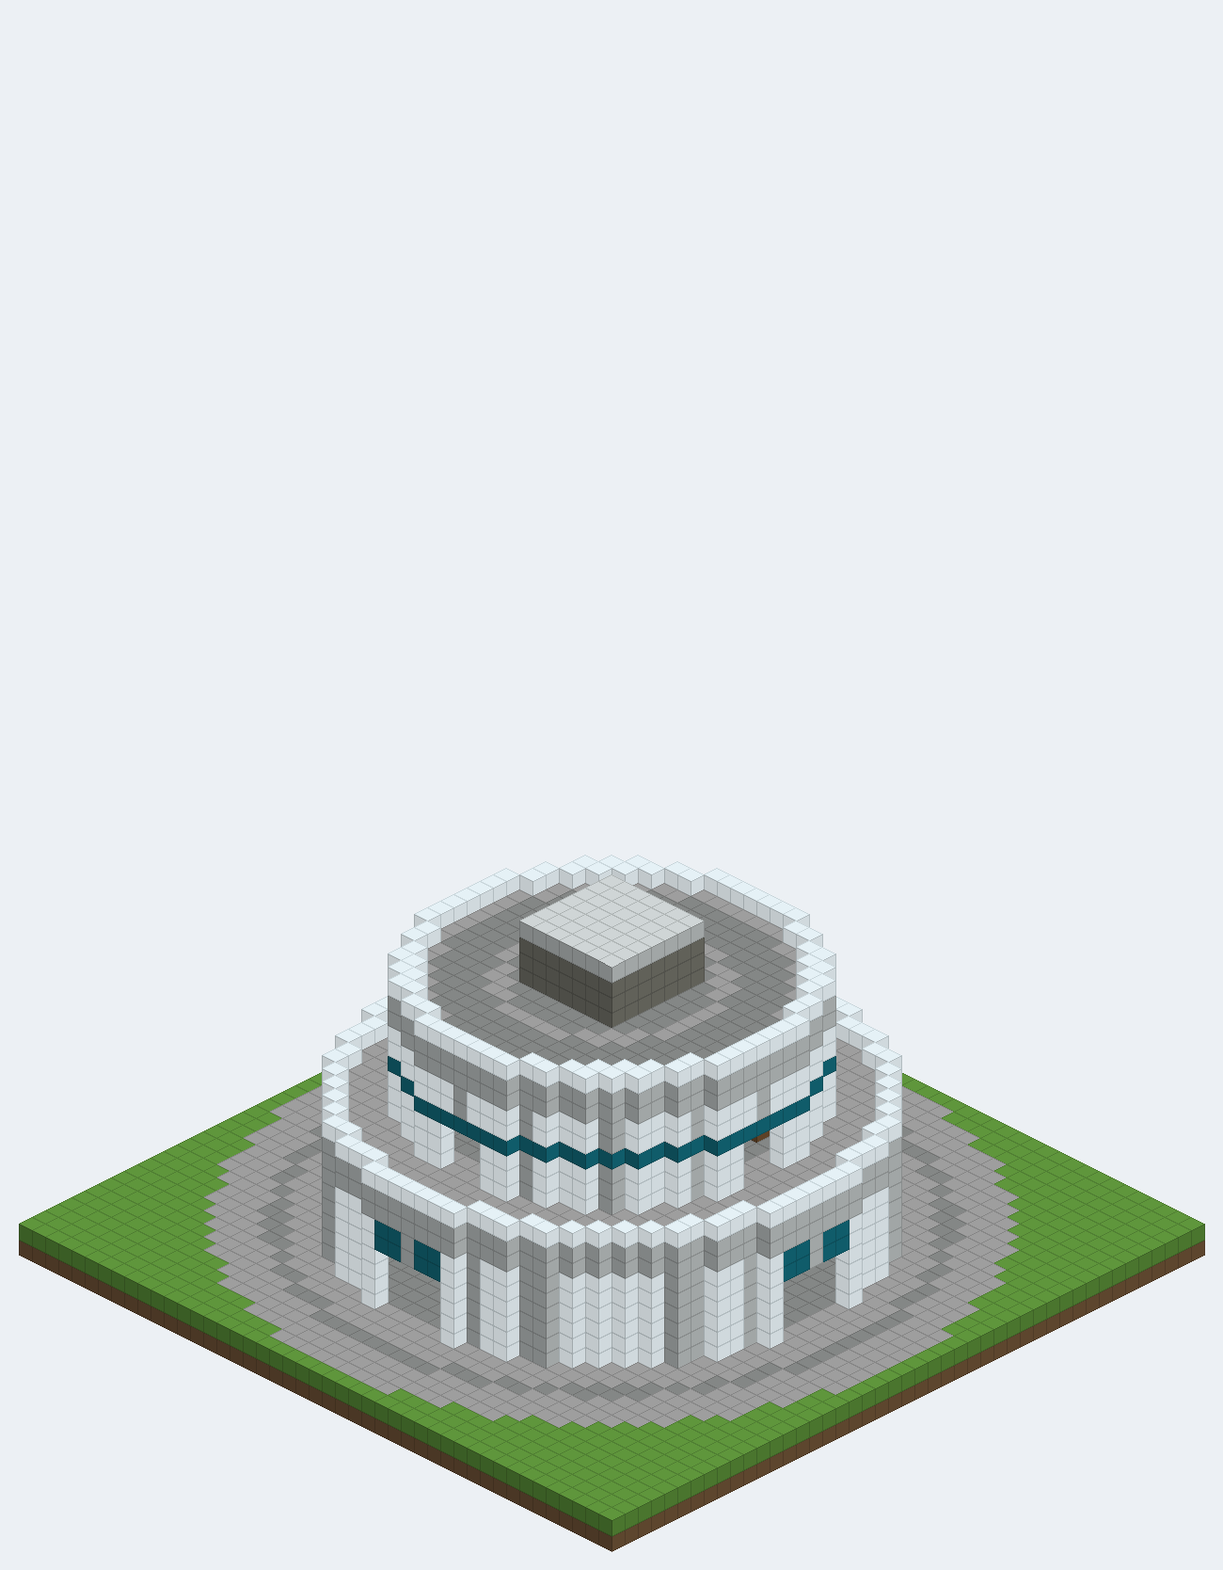
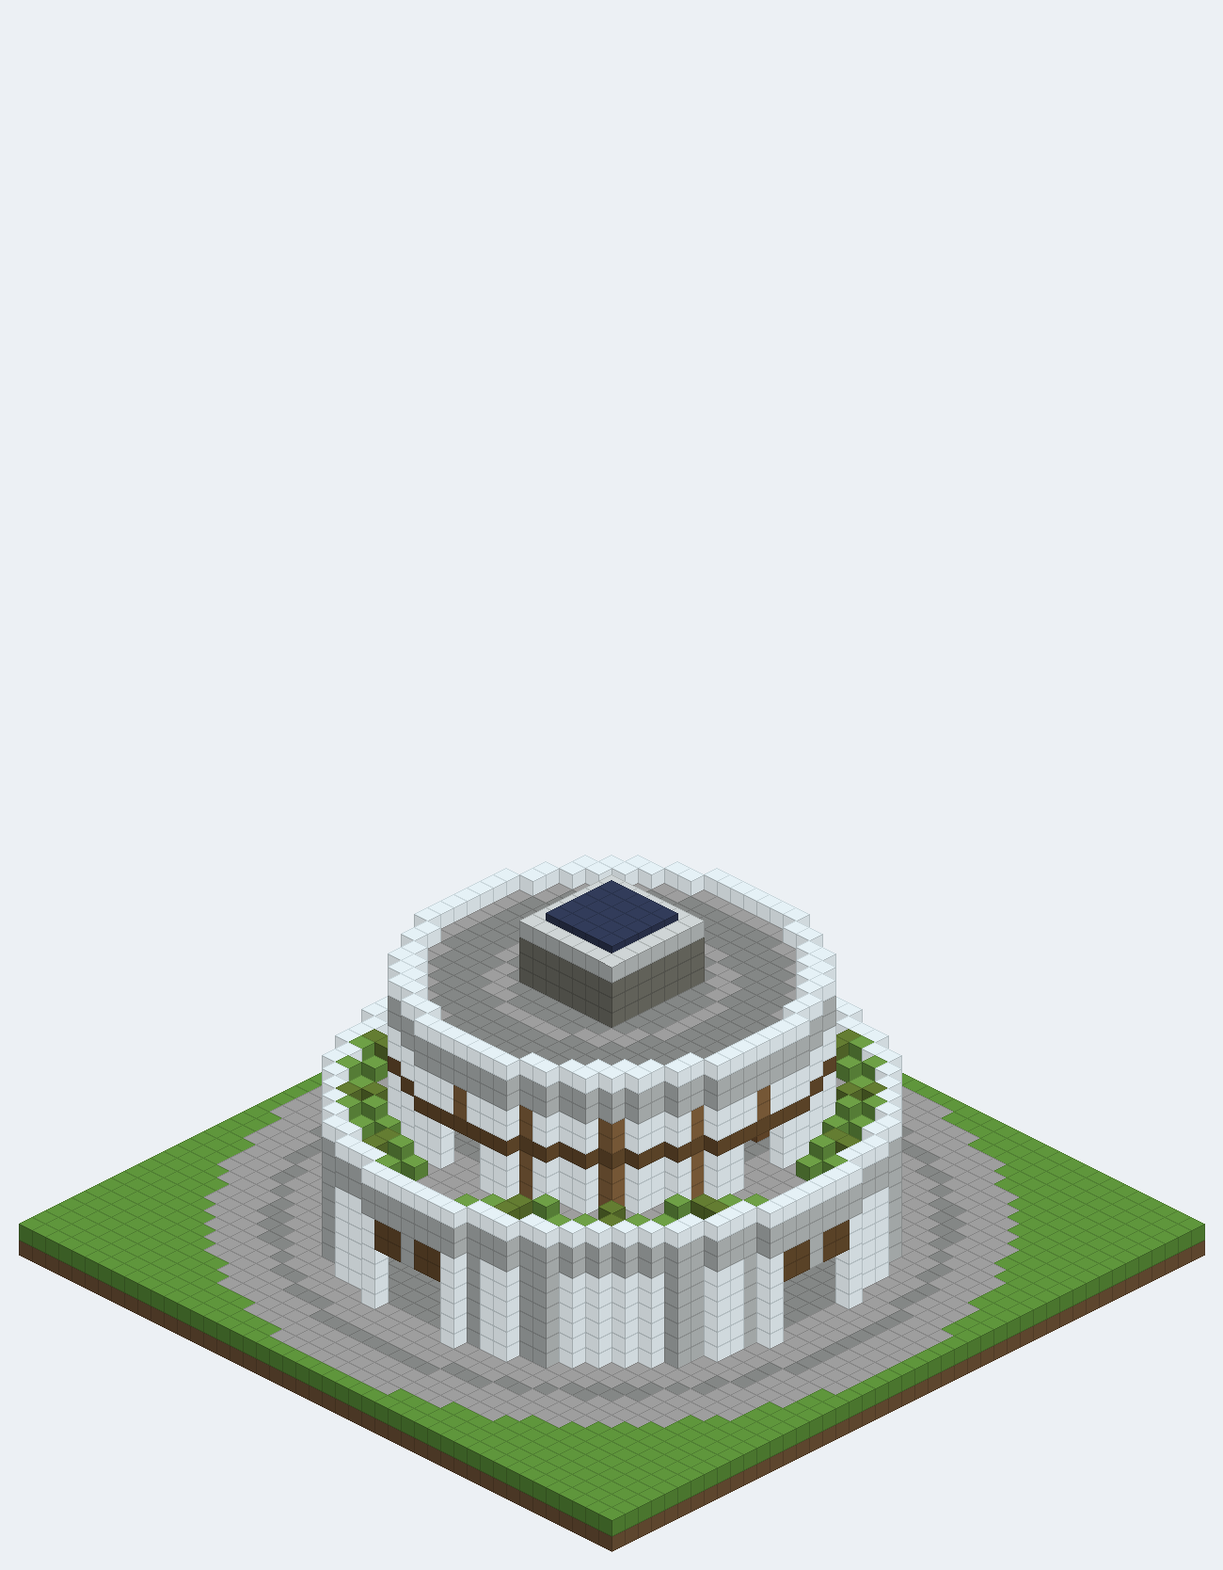
Restyle Neoterra town hall to near-future modern
Replace sci-fi elements (cyan accents, halo ring, glowing spire, launch pad)
with timber louvres, tinted glass, charcoal trim, green roofs, street trees,
solar panels and a glass-floored skywalk.

Claude-Session: https://claude.ai/code/session_01HWXe5nQRHGG7eX2eiwshR9

diff --git a/tools/blueprints/neoterra/townhall.py b/tools/blueprints/neoterra/townhall.py
@@ -1,24 +1,25 @@
 """
 Neoterra Town Hall, levels 1-5 (MineColonies hut: minecolonies:blockhuttownhall).
 
-Every level has the same 45 x 62 x 45 footprint, so upgrades build on top of each other.
-The building grows upward with each level:
+Style: realistic near-future (~2045) civic architecture: white concrete, clear/tinted glass,
+charcoal trim, warm timber louvres and decking, green roofs, solar panels.
 
-  L1  "Founding Hall"   round glass podium (r15) with the hut, reception, crafting/smelting
-                        corner, a bed, and a spiral stair core up to a roof terrace.
-  L2  "Civic Ring"      second floor ring building (r11): a full player workshop
-                        (smithing, stonecutter, grindstone, anvil, loom, cartography,
-                        fletching, blast furnace, smoker, brewing) + storage. Terrace railings.
-  L3  "Archive Tower"   two-storey glass tower (r9): enchanting library (15+ bookshelves),
-                        residents' quarters with beds, wrap-around balcony. Materials upgrade
-                        to quartz, tinted glass, sea-lantern lighting, Domum Ornamentum trim.
-  L4  "Sky Lounge"      glass sky lounge (r7) with ender chest, jukebox and bar, a roof deck,
-                        and an exterior glass bubble-column elevator from the lobby to the deck.
-  L5  "Spire"           spire with antenna, elytra launch pad, glowing halo ring, light fins,
-                        plaza fountains and lamp spires.
+Every level has the same 45 x 62 x 45 footprint, so upgrades build on top of each other:
+
+  L1  Founding Hall   round glass podium (r15): hut + reception, crafting/smelting corner,
+                      bed, spiral stair core to a roof terrace, solar panels.
+  L2  Civic Ring      second-floor ring building (r11) with a full player workshop and storage;
+                      green roof ring with planting on the podium.
+  L3  Archive Tower   two-storey glass tower (r9) with timber mullions: enchanting library
+                      (30 bookshelves), quarters with beds, planted balcony, street lamps.
+                      Glass goes tinted, recessed DO ceiling lights, quartz stairs.
+  L4  Sky Lounge      glass sky lounge (r7), timber roof deck, ender chest / jukebox / bar,
+                      exterior glass bubble-column elevator lobby -> roof, trees + water features.
+  L5  Landmark        vertical timber sun-shading fins, roof garden with trees, antenna mast,
+                      glass-floored skywalk (doubles as an elytra launch).
 
 Coordinates: x/z 0..44 (centre 22), y 0 = foundation (solid substitution), y 1 = ground.
-The front (main entrance + launch pad) faces north (-z).
+The front (main entrance + skywalk) faces north (-z).
 """
 from __future__ import annotations
 
@@ -48,13 +49,32 @@ def build(level: int) -> Blueprint:
 
     # ---------------------------------------------------------------- materials
     WHITE = "white_concrete"
-    GLASS = "glass" if early else "light_blue_stained_glass"
-    TRIM = "gray_concrete" if early else "polished_deepslate"
-    ACCENT = "cyan_concrete"
+    GLASS = "glass" if early else "light_gray_stained_glass"     # clear, later lightly tinted
+    TRIM = "gray_concrete" if early else "polished_deepslate"         # charcoal trim
+    ACCENT = TRIM
+    WOOD = "stripped_spruce_log[axis=y]"                              # timber louvres / fins
+    DECK = "spruce_planks"                                            # timber floors, soffits, bands
+    LEAVES = "azalea_leaves[distance=1,persistent=true,waterlogged=false]"
     CORE = "light_gray_concrete" if early else WHITE
-    SEAT = "polished_andesite_stairs" if early else "smooth_quartz_stairs"
+    SEAT = "spruce_stairs"
     railing = "glass_pane" if L == 1 else do_paperwall("gray_concrete", "glass")
-    trim_slab = "smooth_stone_slab[type=bottom]" if early else do_slab(WHITE)
+
+    def tree(x, y, z, h=3):
+        """Small street/roof-garden tree: timber trunk + leaf crown."""
+        for k in range(h):
+            bp.set(x, y + k, z, "stripped_oak_log[axis=y]")
+        for dx in (-1, 0, 1):
+            for dz in (-1, 0, 1):
+                for k in (h, h + 1):
+                    if k == h + 1 and abs(dx) + abs(dz) == 2:
+                        continue
+                    if (dx, dz) != (0, 0) or k > h - 1:
+                        bp.set(x + dx, y + k, z + dz, "oak_leaves[distance=1,persistent=true,waterlogged=false]")
+        bp.set(x, y + h + 2, z, "oak_leaves[distance=1,persistent=true,waterlogged=false]")
+
+    def planter(x, y, z, plant="flowering_azalea"):
+        bp.set(x, y, z, "moss_block")
+        bp.set(x, y + 1, z, plant)
 
     def ceiling_light(x, y_ceiling, z):
         """Light fixture for a ceiling slab at y_ceiling."""
@@ -70,7 +90,7 @@ def build(level: int) -> Blueprint:
         if round(d) in (6, 10):
             return WHITE
         if round(d) == 13:
-            return ACCENT
+            return DECK
         return "light_gray_concrete"
 
     def in_core(x, z, r=3):
@@ -110,12 +130,13 @@ def build(level: int) -> Blueprint:
             elif early:
                 bp.set(x, 1, z, "polished_andesite" if 17.5 <= d < 18.5 else "smooth_stone")
             else:
-                if 17.5 <= d < 18.5:
-                    bp.set(x, 1, z, "sea_lantern" if pillar_slot(x, z, 32, 0.12) else WHITE)
-                elif 19.5 <= d < 20.5:
-                    bp.set(x, 1, z, ACCENT)
+                path = abs(x - C) <= 2 or abs(z - C) <= 2
+                if 18.5 <= d < 21.5 and not path:
+                    bp.set(x, 1, z, "grass_block[snowy=false]")        # lawn ring
+                elif 17.5 <= d < 18.5:
+                    bp.set(x, 1, z, WHITE)
                 else:
-                    bp.set(x, 1, z, "light_gray_concrete" if (x + z) % 2 else "smooth_stone")
+                    bp.set(x, 1, z, "smooth_stone" if (x // 2 + z // 2) % 2 else "polished_andesite")
 
     # ---------------------------------------------------------------- L1: podium (r15)
     disc(1, 14, lambda x, z: floor_mat(x, z))
@@ -131,7 +152,7 @@ def build(level: int) -> Blueprint:
             col = "pillar_base" if y == 2 else ("pillar_capital" if y == 7 else "pillar_column")
             return do_pillar(WHITE, col)
         if cardinal_gap(x, z, 2) and y in (6, 7):
-            return ACCENT                       # lintel over the entrances
+            return DECK                         # timber lintel over the entrances
         return GLASS
 
     ring(2, 8, 15, podium_wall)
@@ -153,9 +174,9 @@ def build(level: int) -> Blueprint:
             if y == 16:
                 return WHITE
             if y == 13:
-                return ACCENT if early else TRIM
+                return DECK                     # timber band
             if pillar_slot(x, z, 16, 0.12):
-                return WHITE
+                return WOOD
             return GLASS
         disc(9, 10, lambda x, z: floor_mat(x, z))
         ring(10, 16, 11, civic_wall)
@@ -172,7 +193,7 @@ def build(level: int) -> Blueprint:
             if y in (24, 32):
                 return WHITE                    # slab edge bands
             if pillar_slot(x, z, 12, 0.10):
-                return TRIM
+                return WOOD                     # timber mullions
             return GLASS
         ring(18, 24, 9, tower_wall)
         disc(25, 11, lambda x, z: WHITE if dist(x, z, C) >= 8.5 else floor_mat(x, z))   # floor + balcony
@@ -196,7 +217,7 @@ def build(level: int) -> Blueprint:
                 return WHITE
             return GLASS
         ring(34, 40, 7, lounge_wall)
-        disc(41, 10, lambda x, z: WHITE if dist(x, z, C) >= 9.5 else ("smooth_quartz" if (x + z) % 2 else "light_gray_concrete"))
+        disc(41, 10, lambda x, z: WHITE if dist(x, z, C) >= 9.5 else (DECK if dist(x, z, C) >= 7.5 else "smooth_stone"))
         ring(41, 41, 11, lambda x, y, z: do_stairs(WHITE, toward_center(x, z, C), half="top"))
         ring(42, 42, 10, lambda x, y, z: railing)
         for a in range(6):
@@ -204,22 +225,38 @@ def build(level: int) -> Blueprint:
             x, z = round(C + 5 * math.cos(ang)), round(C + 5 * math.sin(ang))
             ceiling_light(x, 41, z)
 
-    # ---------------------------------------------------------------- L5: spire, halo, fins
+    # ---------------------------------------------------------------- green roofs (L2+)
+    if L >= 2:  # planted ring on the podium roof around the civic ring
+        for x in range(SX):
+            for z in range(SZ):
+                d = dist(x, z, C)
+                if 12.5 <= d < 14.5 and not cardinal_gap(x, z, 1):
+                    bp.set(x, 9, z, "grass_block[snowy=false]")
+                    if pillar_slot(x, z, 16, 0.08):
+                        bp.set(x, 10, z, "flowering_azalea" if L >= 3 else "azalea")
+                    elif (x + z) % 3 == 0:
+                        bp.set(x, 10, z, "short_grass")
+
+    # ---------------------------------------------------------------- L5: timber louvres + roof garden
     if L >= 5:
-        # halo ring around the sky lounge, carried on 4 spokes
-        ring(37, 37, 12, lambda x, y, z: "sea_lantern" if pillar_slot(x, z, 24, 0.2) else WHITE)
-        ring(37, 37, 13, lambda x, y, z: ACCENT)
-        for dx, dz in ((1, 0), (-1, 0), (0, 1), (0, -1)):
-            for r in range(8, 12):
-                bp.set(C + dx * r, 37, C + dz * r, "waxed_cut_copper")
-        # vertical light fins on the tower
-        for a in range(8):
-            ang = math.radians(a * 45 + 22.5)
-            x, z = round(C + 10 * math.cos(ang)), round(C + 10 * math.sin(ang))
+        # vertical timber sun-shading fins around the tower (brise-soleil)
+        for a in range(16):
+            ang = math.radians(a * 22.5 + 11.25)
+            # hung from the balcony edge, outside the railing so the balcony stays walkable
+            x, z = round(C + 12 * math.cos(ang)), round(C + 12 * math.sin(ang))
+            if abs(x - C) <= 1 and z > C:
+                continue                            # keep clear of the elevator
             for y in range(18, 33):
-                if y == 25:
-                    continue
-                bp.set(x, y, z, "sea_lantern" if y % 3 == 0 else WHITE)
+                bp.set(x, y, z, WOOD)
+        # roof garden on the deck: lawn ring with trees
+        for x in range(SX):
+            for z in range(SZ):
+                d = dist(x, z, C)
+                if 7.5 <= d < 9.5 and not cardinal_gap(x, z, 1):
+                    bp.set(x, 41, z, "grass_block[snowy=false]")
+        for a in range(4):
+            ang = math.radians(a * 90 + 45)
+            tree(round(C + 8 * math.cos(ang)), 42, round(C + 8 * math.sin(ang)))
 
     # ---------------------------------------------------------------- stair core
     top = TOP[L]
@@ -243,29 +280,15 @@ def build(level: int) -> Blueprint:
         for y in (f + 1, f + 2):
             bp.set(ox, y, oz, "air")
 
-    # spire on top of the core: glass lantern drum, tapering mast, antenna
+    # solar panels on the stair-house roof (every level), antenna mast at level 5
+    for x in range(C - 2, C + 3):
+        for z in range(C - 2, C + 3):
+            bp.set(x, core_top + 2, z, "daylight_detector[inverted=false,power=0]")
     if L >= 5:
-        y0 = core_top + 2                                   # 47
-        for y in range(y0, y0 + 3):                         # 5x5 drum, glass faces + white corners
-            for x in range(C - 2, C + 3):
-                for z in range(C - 2, C + 3):
-                    edge = max(abs(x - C), abs(z - C)) == 2
-                    corner = abs(x - C) == 2 and abs(z - C) == 2
-                    if edge:
-                        bp.set(x, y, z, WHITE if corner else GLASS)
-                    else:
-                        bp.set(x, y, z, "sea_lantern")
-        bp.fill(C - 2, y0 + 3, C - 2, C + 2, y0 + 3, C + 2, WHITE)
-        for y in range(y0 + 4, y0 + 8):                     # 3x3 mast with cyan bands
-            bp.fill(C - 1, y, C - 1, C + 1, y, C + 1, ACCENT if y % 2 == 0 else WHITE)
-        for y in range(y0 + 8, y0 + 11):
-            bp.set(C, y, C, WHITE)
-        bp.set(C, y0 + 11, C, "sea_lantern")
-        bp.set(C, y0 + 12, C, "end_rod[facing=up]")
-        bp.set(C, y0 + 13, C, "lightning_rod[facing=up,powered=false,waterlogged=false]")
-        for dx, dz in ((1, 0), (-1, 0), (0, 1), (0, -1)):   # fins down the mast
-            for y in range(y0 + 4, y0 + 7):
-                put(bp, C + dx * 2, y, C + dz * 2, do_slab(WHITE, "top" if y % 2 else "bottom"))
+        bp.set(C, core_top + 2, C, TRIM)
+        for y in range(core_top + 3, core_top + 9):
+            bp.set(C, y, C, "chain[axis=y,waterlogged=false]")
+        bp.set(C, core_top + 9, C, "lightning_rod[facing=up,powered=false,waterlogged=false]")
 
     # ---------------------------------------------------------------- furniture & function
     sit = []
@@ -281,8 +304,8 @@ def build(level: int) -> Blueprint:
         bp.set(C - 6, 2, z, "barrel[facing=up,open=false]")
         bp.set(C - 5, 2, z, "barrel[facing=up,open=false]")
     # bed (respawn point) in the south-west
-    bp.set(C - 8, 2, C + 6, "cyan_bed[facing=south,occupied=false,part=foot]")
-    bp.set(C - 8, 2, C + 7, "cyan_bed[facing=south,occupied=false,part=head]")
+    bp.set(C - 8, 2, C + 6, "light_gray_bed[facing=south,occupied=false,part=foot]")
+    bp.set(C - 8, 2, C + 7, "light_gray_bed[facing=south,occupied=false,part=head]")
     # waiting benches (south-east, facing the core)
     for x in range(C + 5, C + 9):
         bp.set(x, 2, C + 7, f"{SEAT}[facing=south,half=bottom,shape=straight,waterlogged=false]")
@@ -360,41 +383,33 @@ def build(level: int) -> Blueprint:
             bp.set(x, y, z, "potted_flowering_azalea_bush")
 
     # ---------------------------------------------------------------- exterior extras
-    if L >= 3:  # planters + benches around the plaza
-        for a in range(12):
-            if a % 3 == 0:
-                continue                                  # keep the 4 approach paths clear
-            ang = math.radians(a * 30)
-            x, z = round(C + 19 * math.cos(ang)), round(C + 19 * math.sin(ang))
-            bp.set(x, 1, z, "moss_block")
-            bp.set(x, 2, z, "flowering_azalea")
-    if L >= 4:  # fountains in the plaza corners
+    if L >= 3:  # street lamps along the plaza ring (paths stay clear)
+        for a in range(16):
+            ang = math.radians(a * 22.5 + 11.25)
+            x, z = round(C + 17 * math.cos(ang)), round(C + 17 * math.sin(ang))
+            if cardinal_gap(x, z, 2):
+                continue
+            bp.fill(x, 2, z, x, 4, z, "polished_blackstone_wall[east=none,north=none,south=none,up=true,waterlogged=false,west=none]")
+            bp.set(x, 5, z, "lantern[hanging=false,waterlogged=false]")
+    if L >= 4:  # trees on the lawn ring + water features in the corners
+        for a in range(8):
+            ang = math.radians(a * 45 + 22.5)
+            tree(round(C + 20 * math.cos(ang)), 2, round(C + 20 * math.sin(ang)), h=4)
         for cx, cz in ((5, 5), (39, 5), (5, 39), (39, 39)):
-            bp.fill(cx - 2, 1, cz - 2, cx + 2, 1, cz + 2, WHITE)
+            bp.fill(cx - 2, 1, cz - 2, cx + 2, 1, cz + 2, "smooth_stone")
             bp.fill(cx - 1, 1, cz - 1, cx + 1, 1, cz + 1, "water[level=0]")
-            bp.set(cx, 1, cz, "sea_lantern")
-            bp.set(cx, 2, cz, "water[level=0]")
-            bp.set(cx, 0, cz, "smooth_stone")
-            for x in range(cx - 1, cx + 2):
-                for z in range(cz - 1, cz + 2):
-                    bp.set(x, 0, z, "smooth_stone")
-    if L >= 5:  # lamp spires on the plaza ring + elytra launch pad
-        for a in range(4):
-            ang = math.radians(a * 90 + 45)
-            x, z = round(C + 16.5 * math.cos(ang)), round(C + 16.5 * math.sin(ang))
-            bp.fill(x, 2, z, x, 6, z, WHITE)
-            bp.set(x, 7, z, "sea_lantern")
-            bp.set(x, 8, z, "end_rod[facing=up]")
-        # launch pad: cantilevered north from the roof deck
+            bp.fill(cx - 1, 0, cz - 1, cx + 1, 0, cz + 1, "smooth_stone")
+            bp.set(cx, 0, cz, "sea_lantern")                # underwater light
+    if L >= 5:  # glass-floored skywalk cantilevered north off the roof deck (also an elytra launch)
         for z in range(C - 18, C - 9):
             for x in range(C - 1, C + 2):
-                bp.set(x, 41, z, "yellow_concrete" if z == C - 18 else ("sea_lantern" if x == C and z % 2 == 0 else "light_gray_concrete"))
+                bp.set(x, 41, z, "glass" if x == C else "smooth_stone")
             put(bp, C - 2, 42, z, railing)
             put(bp, C + 2, 42, z, railing)
             bp.set(C - 2, 41, z, WHITE)
             bp.set(C + 2, 41, z, WHITE)
         for x in range(C - 1, C + 2):
-            bp.set(x, 42, C - 10, "air")                  # open the deck railing to the pad
+            bp.set(x, 42, C - 10, "air")                  # open the deck railing to the skywalk
 
     # ---------------------------------------------------------------- elevator (L4+)
     if L >= 4:
@@ -408,7 +423,7 @@ def build(level: int) -> Blueprint:
                     elif y == deck:
                         bp.set(x, y, z, WHITE)
                     else:
-                        bp.set(x, y, z, "tinted_glass" if y % 8 == 1 else "light_blue_stained_glass")
+                        bp.set(x, y, z, TRIM if y % 8 == 1 else "glass")
                 bp.set(x, deck + 3, z, WHITE)
         bp.set(tx, 1, tz, "soul_sand")
         # bottom door from the lobby, top exit onto the deck (water never flows through doors)

diff --git a/tools/blueprints/render.py b/tools/blueprints/render.py
@@ -32,10 +32,14 @@ COLORS = {
     "cyan_bed": (21, 137, 145), "azalea": (100, 125, 50), "waxed_cut_copper": (190, 105, 75),
     "waxed_copper_door": (190, 105, 75), "end_rod": (240, 235, 220), "lightning_rod": (190, 105, 75),
     "smooth_quartz": (235, 229, 222), "enchanting_table": (150, 30, 40), "blockhuttownhall": (255, 60, 200),
+    "spruce_planks": (115, 85, 50), "stripped_spruce_log": (150, 112, 70), "spruce_stairs": (115, 85, 50),
+    "light_gray_stained_glass": (175, 180, 185), "oak_leaves": (70, 120, 40), "azalea_leaves": (90, 125, 45),
+    "stripped_oak_log": (175, 140, 85), "daylight_detector": (50, 60, 90), "chain": (60, 65, 75),
+    "short_grass": (110, 160, 70), "light_gray_bed": (160, 160, 155), "polished_blackstone_wall": (53, 48, 56),
 }
 SOLID_GUESS = (180, 120, 200)
 GLASS = {"light_blue_stained_glass", "glass_pane", "glass", "tinted_glass", "blockpaperwall", "water"}
-HALF = {"smooth_quartz_slab", "smooth_stone_slab", "rail"}
+HALF = {"smooth_quartz_slab", "smooth_stone_slab", "rail", "daylight_detector"}
 
 
 def short(state):

diff --git a/README.md b/README.md
@@ -1,7 +1,8 @@
 # Neoterra – MineColonies style pack (NeoForge 1.21.1)
 
-Semi-futuristic megastructures in white concrete, quartz, tinted glass and cyan accents.
-Every building grows upward level by level and is packed with things the player can use.
+Realistic near-future architecture ("modern, 20 years from now"): big white-concrete and glass
+civic buildings with warm timber louvres, charcoal trim, green roofs, trees and solar panels.
+Every building has levels 1–5, grows upward level by level, and is packed with things the player can use.
 
 Requires: MineColonies, Structurize, Domum Ornamentum (all on NeoForge 1.21.1).
 
@@ -16,15 +17,15 @@ Copy `stylepacks/Neoterra` into `.minecraft/blueprints/` (so you get
 ### Town hall (`fundamentals/townhall1-5`) – 45 × 62 × 45, same footprint every level
 | Level | Adds | Player use |
 |---|---|---|
-| 1 Founding Hall | Round glass podium, reception with the hut block, stair core to a roof terrace | Crafting table, 2 furnaces, 4 barrels, bed (respawn) |
-| 2 Civic Ring | Second-floor ring building, terrace railings | Full workshop: smithing table, stonecutter, grindstone, anvil, loom, cartography & fletching tables, blast furnace, smoker, furnace, brewing stand, water cauldron, 10 barrels |
-| 3 Archive Tower | Two-storey glass tower, balcony, upgrade to tinted glass / quartz / Domum Ornamentum trim and lights | Enchanting library (max level enchants: 30 bookshelves), lectern, anvil, grindstone, 4 beds |
-| 4 Sky Lounge | Glass sky lounge, roof deck, plaza fountains | Ender chest, jukebox, bar; **glass bubble-column elevator** from the lobby (copper door) straight to the roof deck |
-| 5 Spire | Glowing halo ring, light fins, lamp spires, tapered spire with antenna | **Elytra launch pad** cantilevered off the roof deck (~40 blocks up) |
+| 1 Founding Hall | Round glass podium, reception with the hut block, stair core to a roof terrace, solar panels | Crafting table, 2 furnaces, 4 barrels, bed (respawn) |
+| 2 Civic Ring | Second-floor ring building with timber band, green roof ring, terrace railings | Full workshop: smithing table, stonecutter, grindstone, anvil, loom, cartography & fletching tables, blast furnace, smoker, furnace, brewing stand, water cauldron, 10 barrels |
+| 3 Archive Tower | Two-storey tinted-glass tower with timber mullions, balcony, street lamps, Domum Ornamentum trim and recessed lights | Enchanting library (max level enchants: 30 bookshelves), lectern, anvil, grindstone, 4 beds |
+| 4 Sky Lounge | Glass sky lounge, timber roof deck, street trees, water features | Ender chest, jukebox, bar; **glass bubble-column elevator** from the lobby (copper door) straight to the roof deck |
+| 5 Landmark | Vertical timber sun-shading fins, roof garden with trees, antenna mast | **Glass-floored skywalk** off the roof deck, ~40 blocks up (doubles as an elytra launch) |
 
-Approximate blocks: L1 ≈ 3.8k, L2 ≈ 5.0k, L3 ≈ 7.5k, L4 ≈ 8.7k, L5 ≈ 9.2k (mostly concrete and glass).
+Approximate blocks: L1 ≈ 3.8k, L2 ≈ 5.1k, L3 ≈ 7.6k, L4 ≈ 9.0k, L5 ≈ 9.4k (mostly concrete, glass and spruce).
 Levels 1–2 avoid Nether/End materials so they are buildable early; quartz, sea lanterns,
-polished deepslate and end rods start at level 3+.
+and polished deepslate start at level 3.
 
 ## Tooling
 Blueprints are generated by Python (no hand-scanned files):
